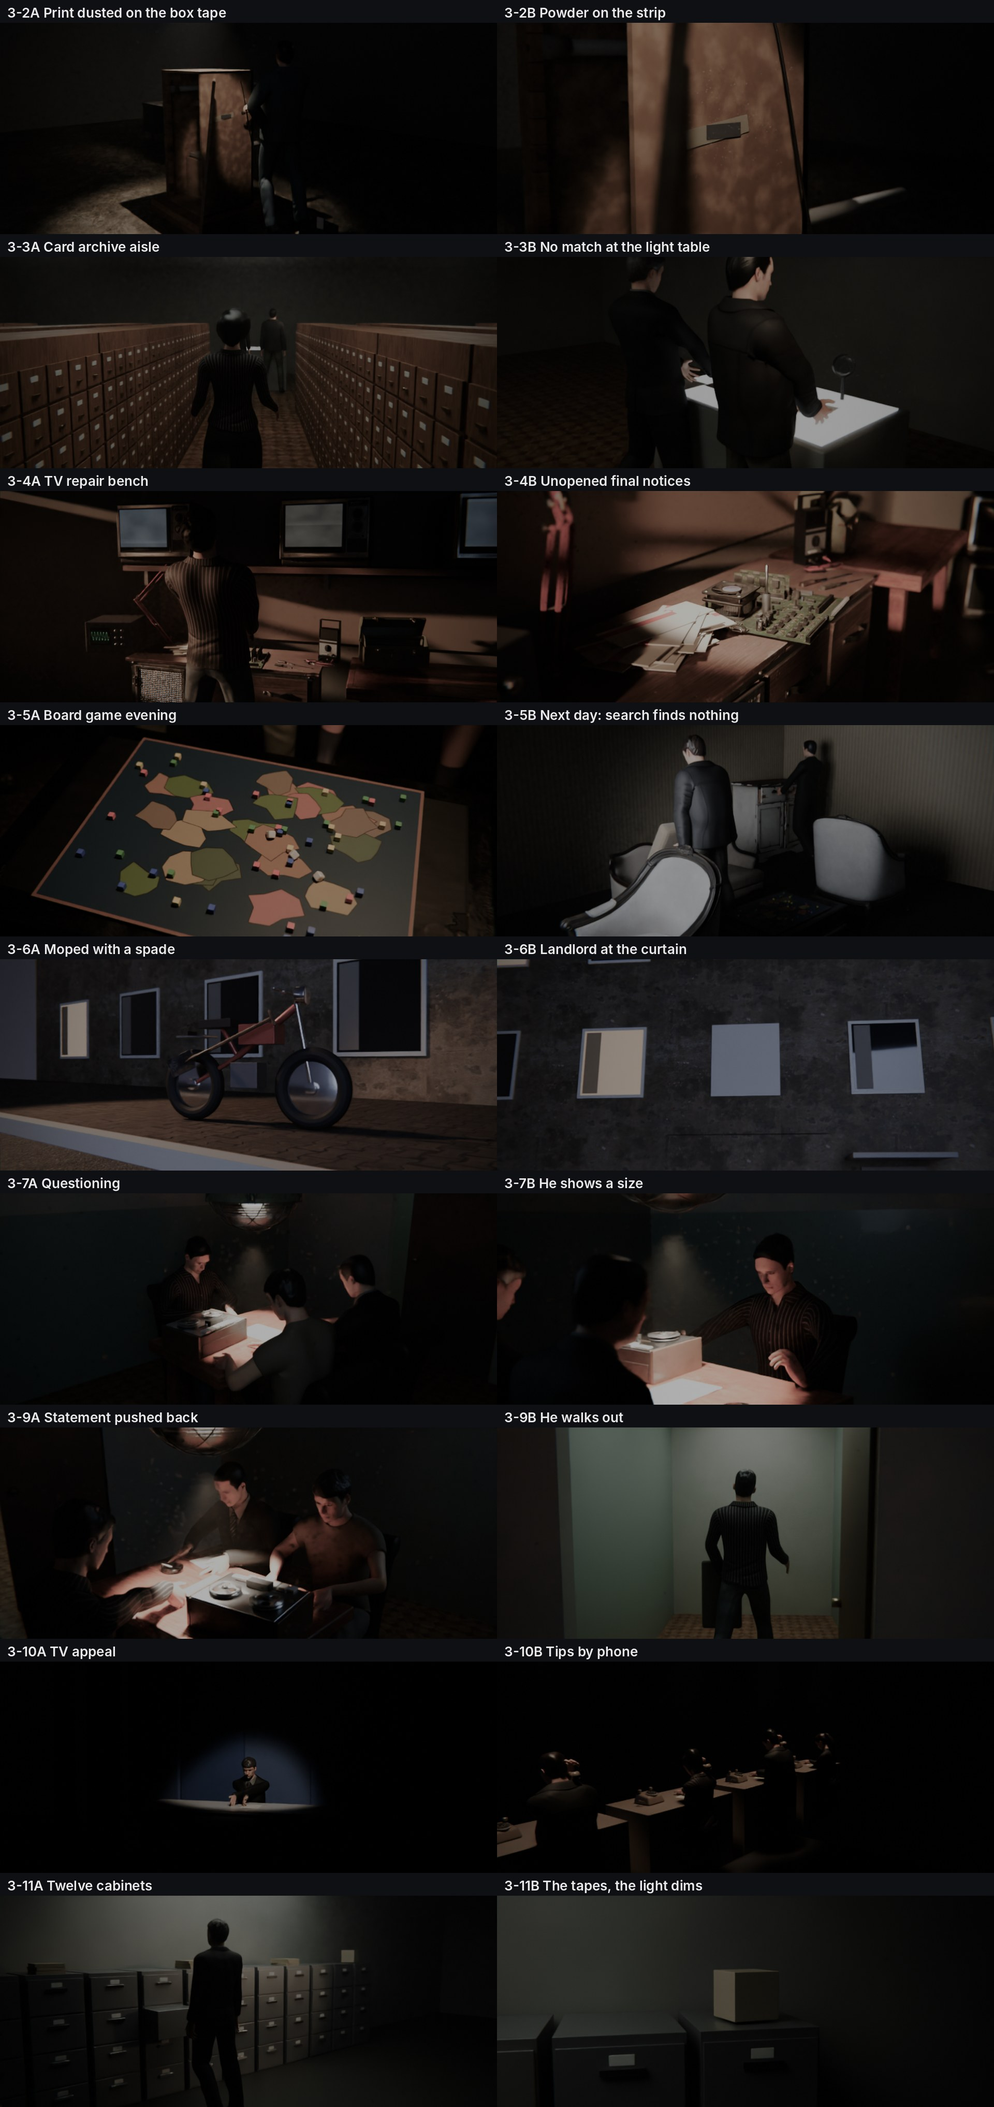
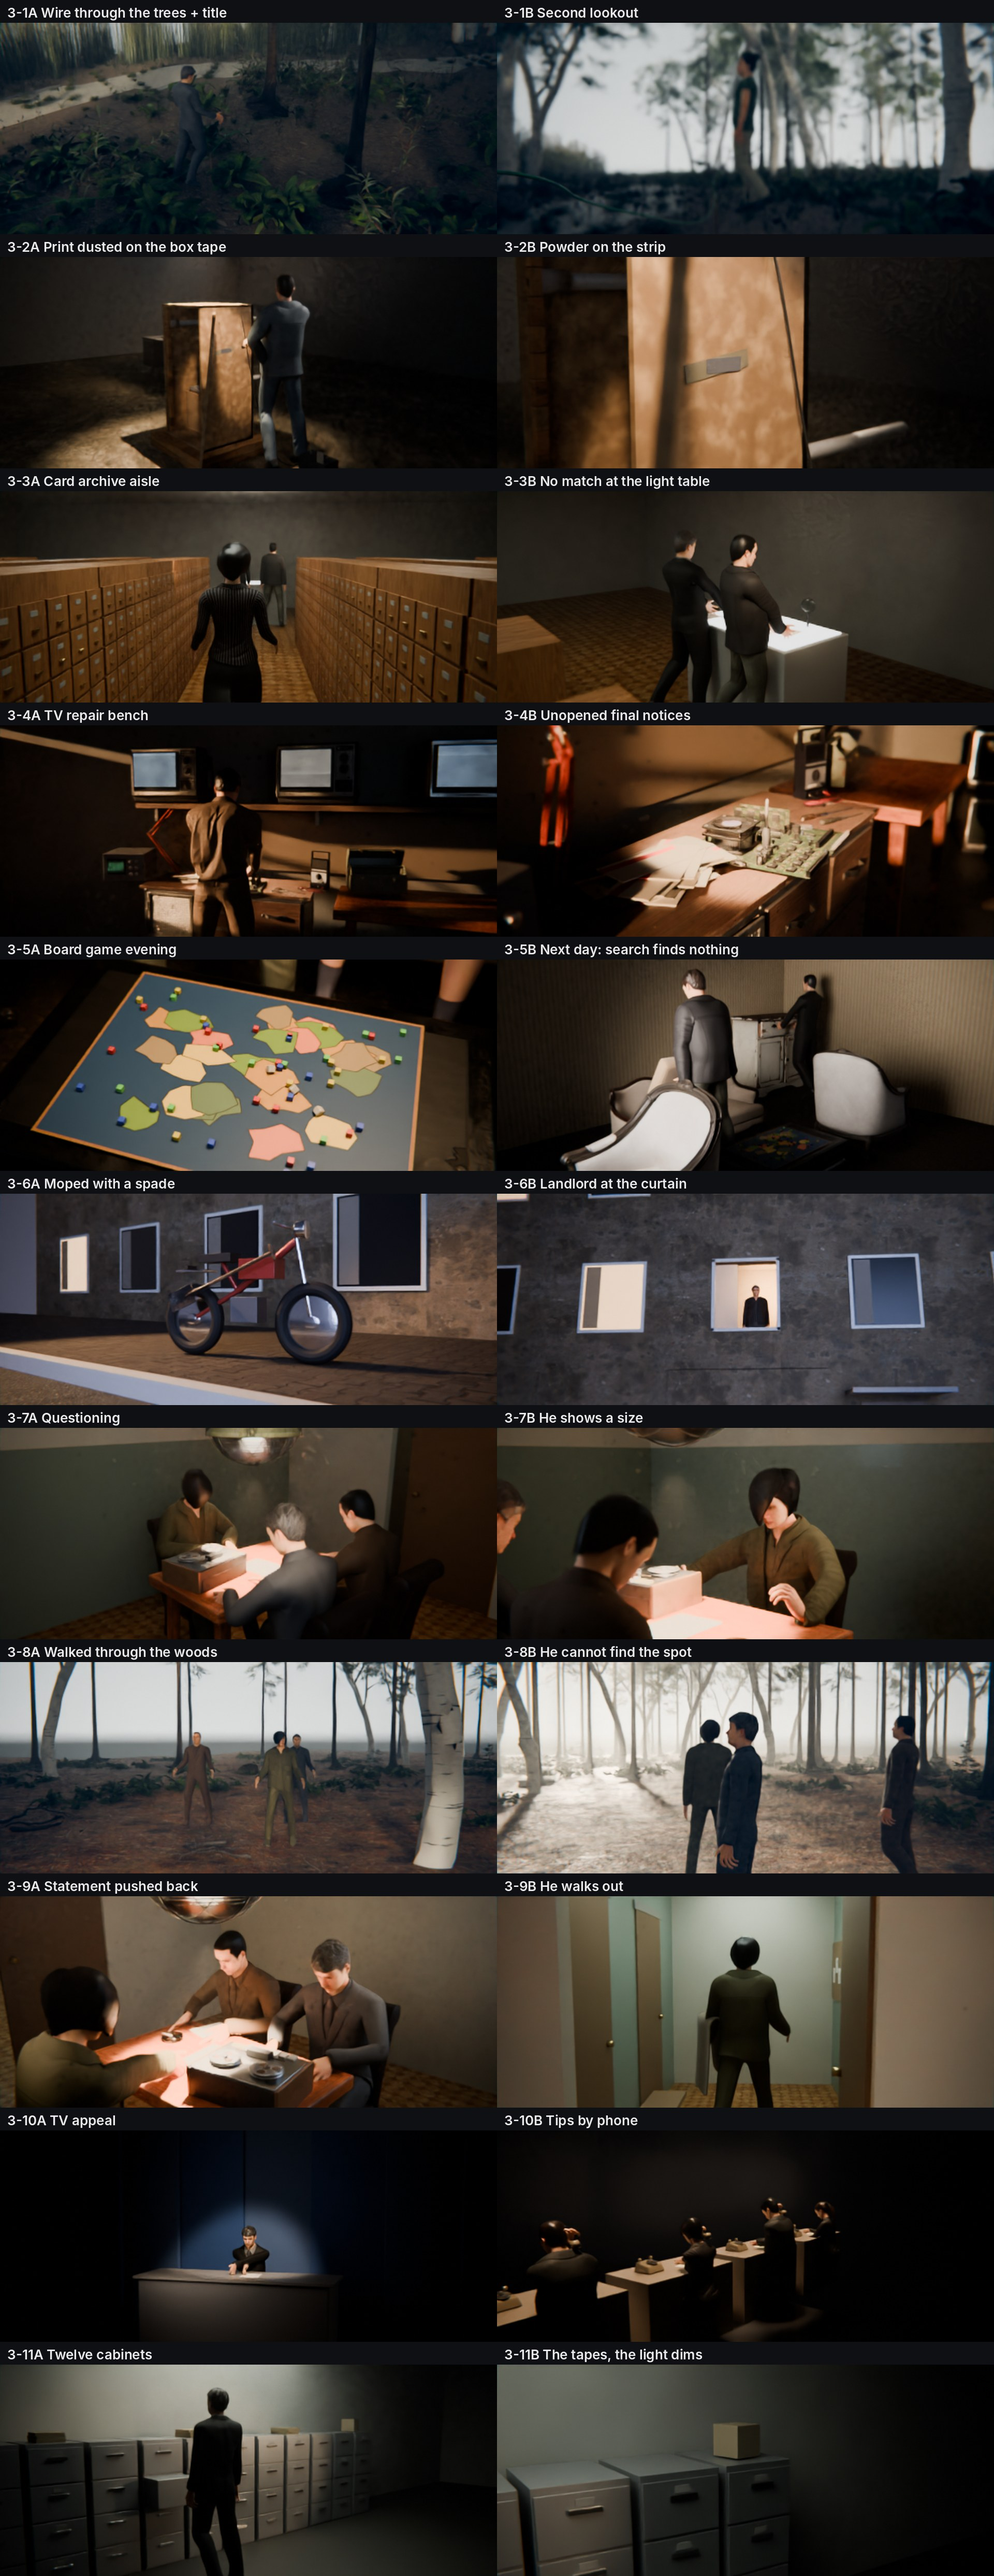
radio-jingle B: chapter 3-5 sheets v2 + hand strips (look v5, all fixes, t=0/0.5/1 checked)
Claude-Session: https://claude.ai/code/session_01XfwPSmdQ4Yjh3CAg9vZd6z

diff --git a/projects/radio-jingle/scenes/sc_b_archive.py b/projects/radio-jingle/scenes/sc_b_archive.py
@@ -110,7 +110,7 @@ def build(variant=None):
         # one flickering fluorescent tube over the row (frame driver), dimming at the end
         tube = box("Tube", (0.0, 4.6, 2.95), (3.0, 0.1, 0.04), emissive("TubeE", (0.9, 0.95, 0.88), 2.5))
         tl = area_light((0.0, 4.6, 2.9), (0, 0, 0), 3.0, 90, (0.88, 0.95, 0.85)); tl.visible_camera = False
-        expr = "(1 if (frame < 70 or (frame % 7 > 2 and frame < 110)) else 0.15) * (1 if frame < 120 else 0.15)"
+        expr = "(1 if (frame < 70 or (frame % 7 > 2 and frame < 110)) else 0.35) * (1 if frame < 120 else 0.4)"
         d = tl.data.driver_add("energy").driver; d.type = 'SCRIPTED'; d.expression = f"90 * {expr}"
         em = tube.data.materials[0].node_tree.nodes["Principled BSDF"].inputs['Emission Strength']
         d = em.driver_add("default_value").driver; d.type = 'SCRIPTED'; d.expression = f"2.5 * {expr}"
